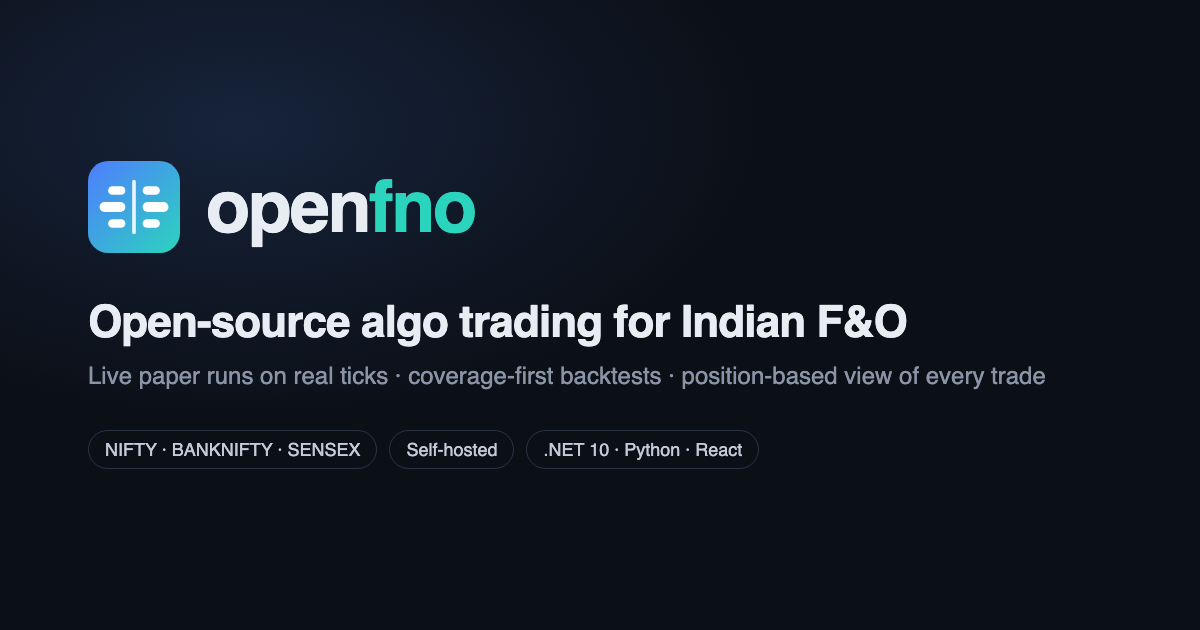
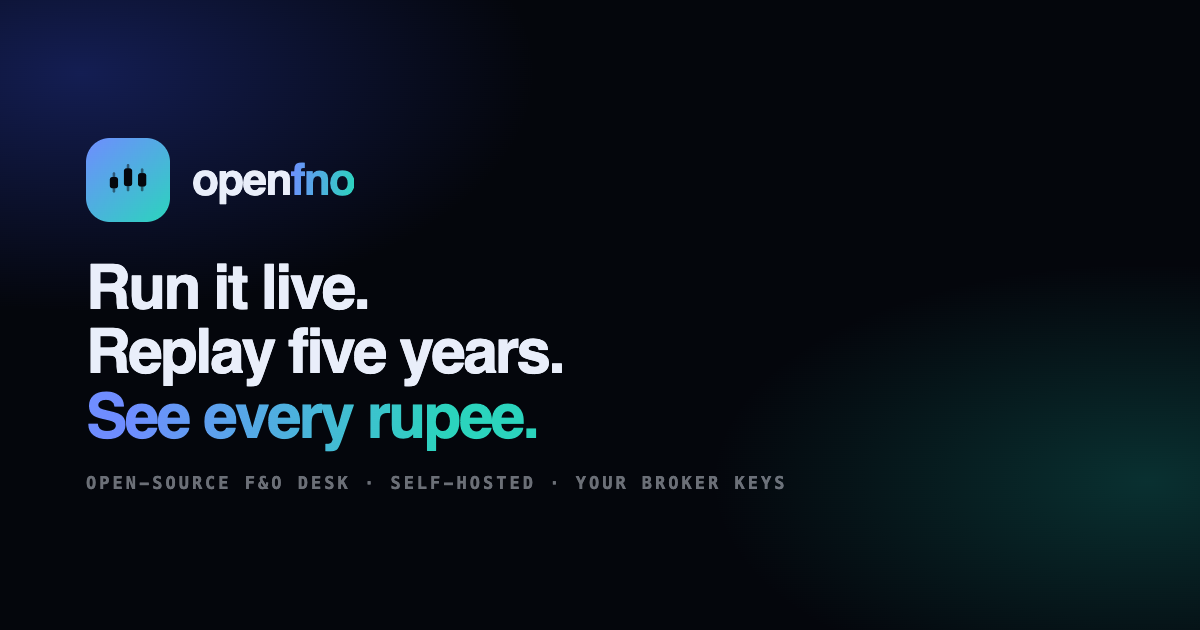
Give the platform a mark you can read at 16px
Three candles with their wicks, in place of the abstract chain glyph: at a tab's
16px the old mark read as six grey dashes, and the one thing this product is
about was nowhere in its icon. The same drawing now serves the app icon, the
favicon, the brand files, the touch icon and the social card, which is regenerated
with the homepage's own words.

diff --git a/web/src/pages/landing.css b/web/src/pages/landing.css
@@ -436,9 +436,10 @@
 .term__bar { display: flex; align-items: center; gap: 7px; height: 36px; padding: 0 14px; border-bottom: 1px solid rgba(255, 255, 255, .06); background: rgba(255, 255, 255, .03); }
 .term__bar i { width: 8px; height: 8px; border-radius: 50%; background: rgba(255, 255, 255, .13); flex: none; }
 .term__bar span { margin-left: 12px; font: 500 10.5px/1 var(--mono); letter-spacing: .14em; text-transform: uppercase; color: var(--ink-3); }
-/* The console's own <pre> has a well behind it; this one is part of the panel. */
-.term__body { margin: 0; padding: 18px 18px 8px; overflow-x: auto; background: none; border: 0; border-radius: 0; }
-.term__body code { display: grid; gap: 9px; font: 12px/1.5 var(--mono); background: none; padding: 0; }
+/* The console's own <pre>/<code> have wells behind them; here they are part of
+   the panel, so both are reset at a specificity that beats the element rules. */
+.login .term__body { margin: 0; padding: 18px 18px 8px; overflow-x: auto; background: transparent; border: 0; border-radius: 0; }
+.login .term__body code { display: grid; gap: 9px; font: 12px/1.5 var(--mono); background: transparent; border: 0; padding: 0; }
 .term__line { display: grid; grid-template-columns: 88px minmax(0, 1fr); gap: 14px; color: var(--ink-2); white-space: nowrap; }
 .term__line b { color: var(--accent-2); font-weight: 600; }
 .term__line--cue { color: var(--ink); }

diff --git a/web/src/components/icons.tsx b/web/src/components/icons.tsx
@@ -40,7 +40,9 @@ function Icon({ children, ...props }: SVGProps<SVGSVGElement> & { children: Reac
  */
 export const IconLogo = (p: SVGProps<SVGSVGElement>) => (
   <Icon strokeWidth="0" {...p}>
-    <g fill="currentColor" stroke="none"><rect x="5.25" y="6.5" width="4.5" height="2.3" rx="1.15"/><rect x="14.25" y="6.5" width="4.5" height="2.3" rx="1.15"/><rect x="3" y="10.7" width="6.75" height="2.6" rx="1.3"/><rect x="14.25" y="10.7" width="6.75" height="2.6" rx="1.3"/><rect x="5.25" y="15.2" width="4.5" height="2.3" rx="1.15"/><rect x="14.25" y="15.2" width="4.5" height="2.3" rx="1.15"/><rect x="11.5" y="4.8" width="1" height="14.4" rx=".5" opacity=".9"/></g>
+    {/* Three candles with their wicks — the one picture this platform is
+        about, and the only glyph that still reads at 16px in a tab. */}
+    <g fill="currentColor" stroke="none"><rect x="4.9" y="8.4" width="1.2" height="9.4" rx=".6" opacity=".5"/><rect x="3.6" y="10.6" width="3.8" height="5.2" rx="1.2"/><rect x="11.4" y="4.6" width="1.2" height="12.6" rx=".6" opacity=".5"/><rect x="10.1" y="6.6" width="3.8" height="8.2" rx="1.2"/><rect x="17.9" y="6.6" width="1.2" height="10.6" rx=".6" opacity=".5"/><rect x="16.6" y="8.8" width="3.8" height="6.2" rx="1.2"/></g>
   </Icon>
 )
 
